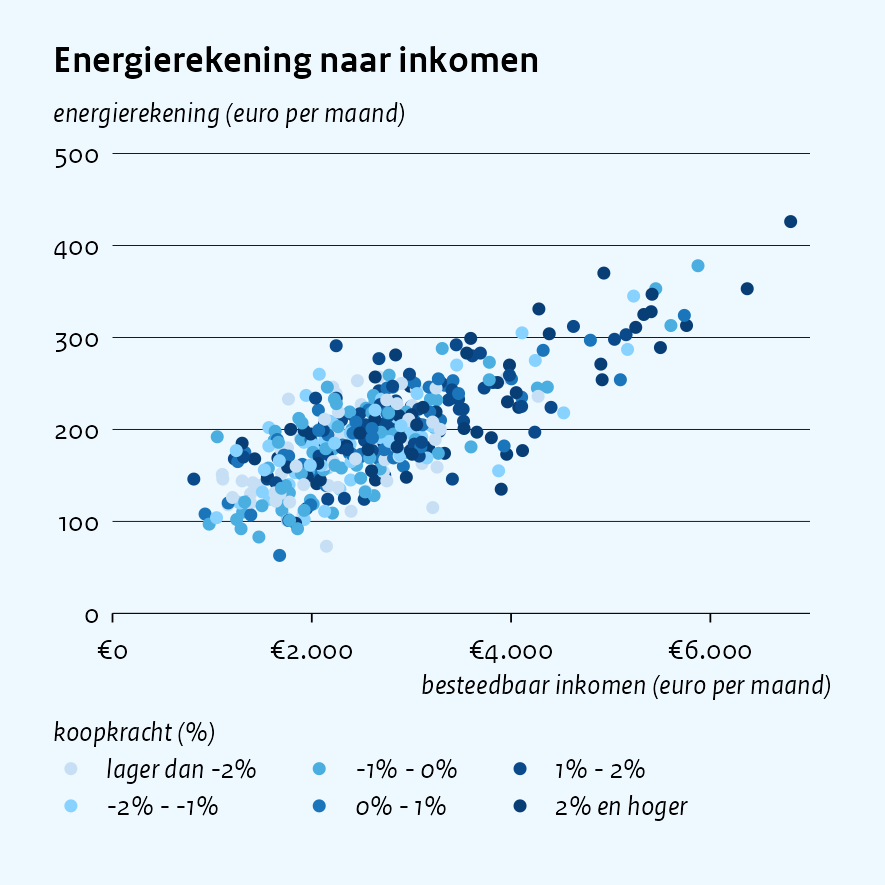
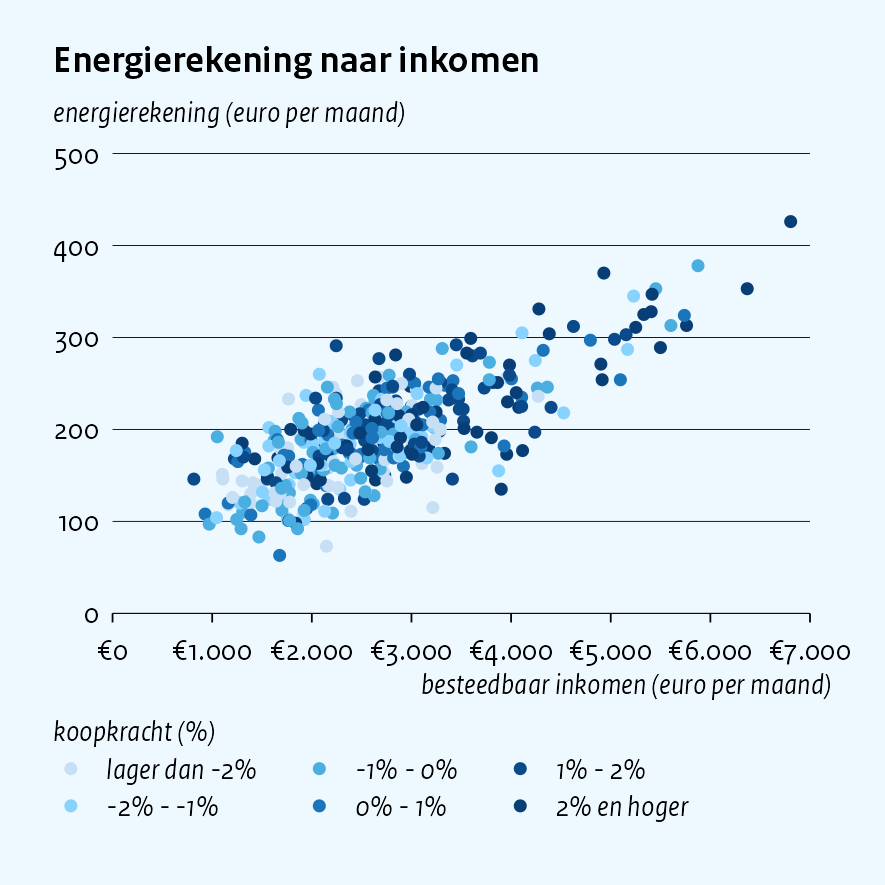
docs: re-render the scatter figure

diff --git a/doc/chart-types.md b/doc/chart-types.md
@@ -516,10 +516,8 @@ cpb_scatter(hh, x = inkomen, y = energierekening,
   title = "Energierekening naar inkomen",
   ylab  = "energierekening (euro per maand)",
   xlab  = "besteedbaar inkomen (euro per maand)",
-  legend_title = "koopkracht (%)") +
-  scale_x_continuous(labels = label_euro_nl())
-#> Scale for x is already present.
-#> Adding another scale for x, which will replace the existing scale.
+  x_labels = label_euro_nl(),
+  legend_title = "koopkracht (%)")
 ```
 
 <img src="chart-types_files/figure-gfm/scatter-1.png" alt="" width="350px" />
